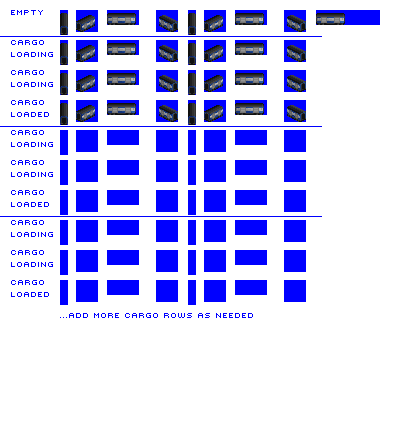
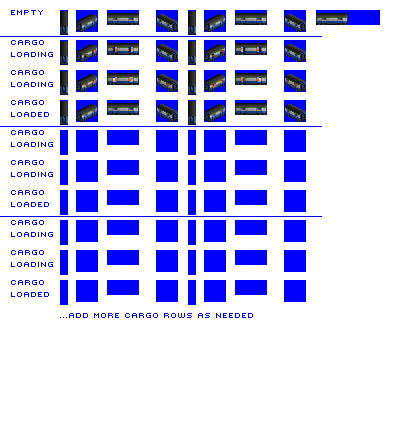
Feature: new sprites for brit Gen 3 Mail Car

diff --git a/src/vehicles/mail_cars.py b/src/vehicles/mail_cars.py
@@ -84,7 +84,7 @@ consist.add_unit(MailCar(type_config = type_config,
                         consist = consist,
                         capacity_mail = 60,
                         weight = 31,
-                        vehicle_length = 7,
+                        vehicle_length = 8,
                         loading_speed = 20))              
 
 consist.add_model_variant(intro_date=0,
